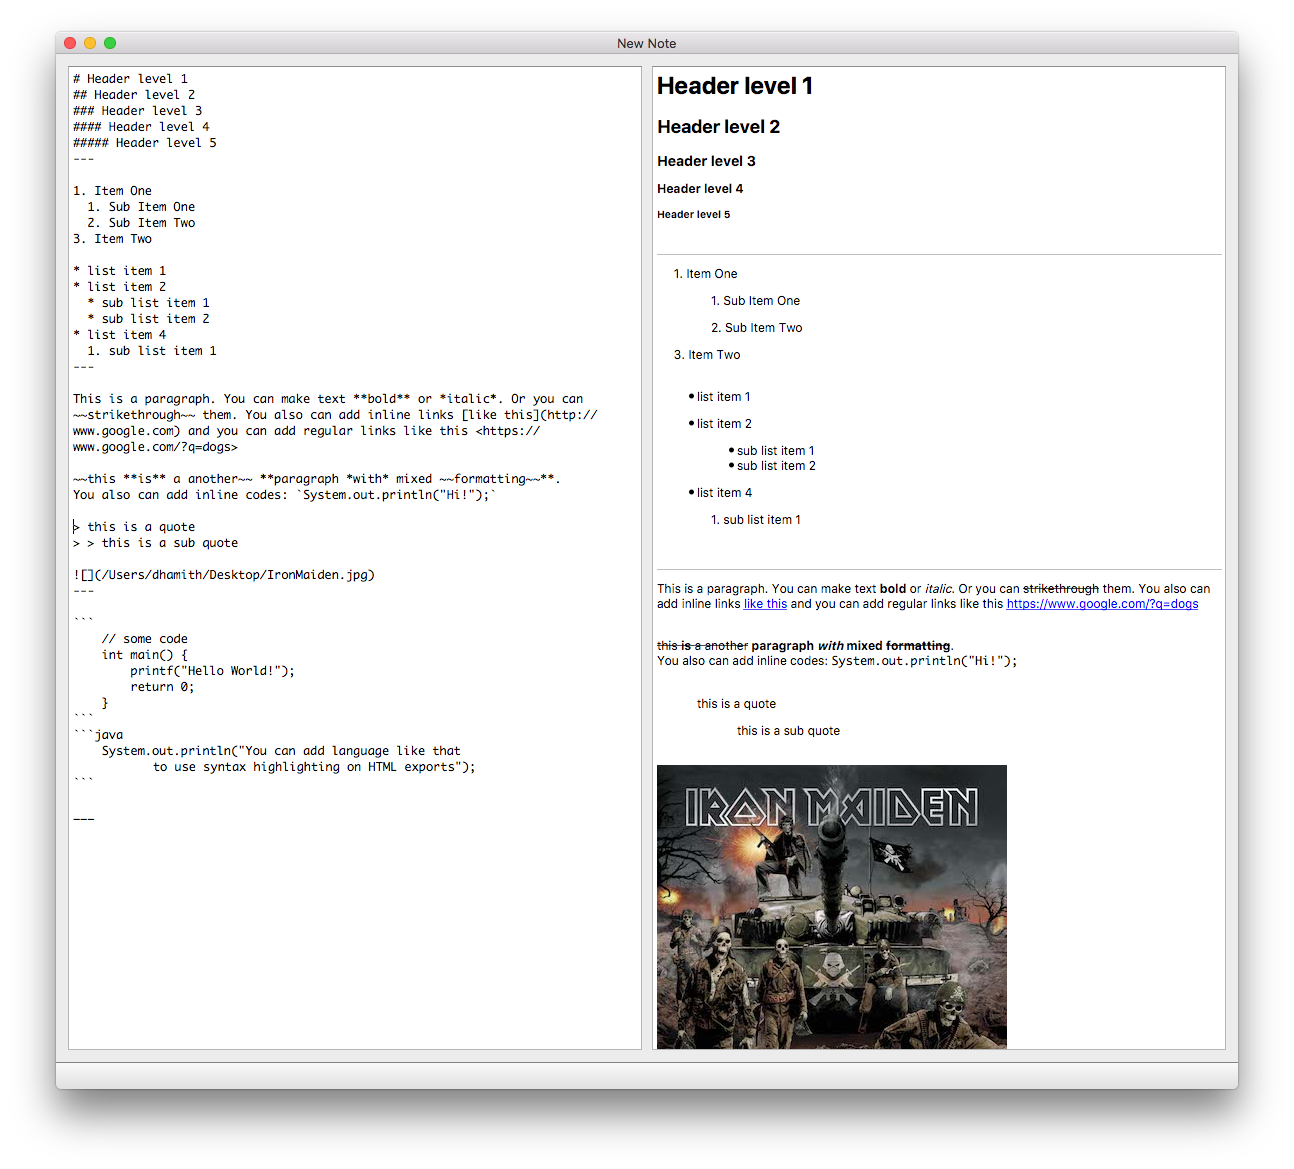
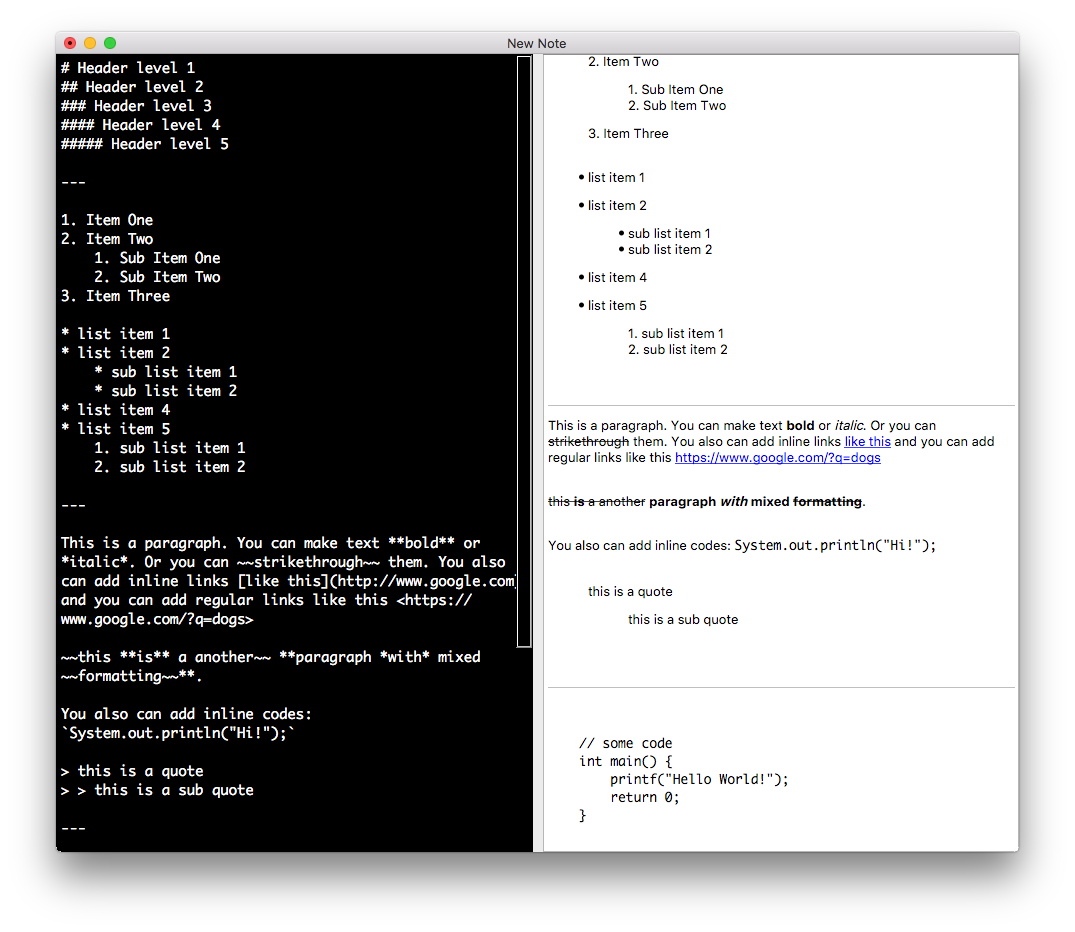
New MainWindow UI

diff --git a/newnotewindow.cpp b/newnotewindow.cpp
@@ -32,6 +32,7 @@ NewNoteWindow::NewNoteWindow(QWidget *parent, string filePath) :
     ui->setupUi(this);
     setAttribute(Qt::WA_DeleteOnClose);
     ui->actionPreview->setChecked(true);
+    ui->txtInput->setStyleSheet("background-color: black; color:white;");
     if (db.fontConfigExists()) {
         QFont font;
         font.fromString(db.getFontConfig());
@@ -55,6 +56,7 @@ NewNoteWindow::NewNoteWindow(QWidget *parent, string filePath) :
             db.insertNote(fileName);
         }
     } else {
+        setWindowModified(true);
         string input = ui->txtInput->toPlainText().toUtf8().constData();
         if (input.size() > 0) {
             setText(input);
@@ -65,6 +67,9 @@ NewNoteWindow::NewNoteWindow(QWidget *parent, string filePath) :
 void NewNoteWindow::on_txtInput_textChanged() {
     changeCount += 1;
     fileSaved = (fromOpen) ? (changeCount == 1) ? true : false : false;
+    if (!fileSaved) {
+        setWindowModified(true);
+    }
     string input = ui->txtInput->toPlainText().toUtf8().constData();
     if (input.size() > 0 && ui->actionPreview->isChecked()) {
         setText(input);
@@ -188,6 +193,7 @@ void NewNoteWindow::saveFile() {
             out.close();
             fileSaved = true;
             fromOpen = true;
+            setWindowModified(false);
             setWindowTitle(fileName);
             if (!db.checkIfExists(fileName)) {
                 if (db.checkRowCountEq(10)) {

diff --git a/newwebenginenotewindow.cpp b/newwebenginenotewindow.cpp
@@ -54,12 +54,17 @@ NewWebEngineNoteWindow::NewWebEngineNoteWindow(QWidget *parent, string filePath)
             }
             db.insertNote(fileName);
         }
+    } else {
+        setWindowModified(true);
     }
 }
 
 void NewWebEngineNoteWindow::on_txtInput_textChanged() {
     changeCount += 1;
     fileSaved = (fromOpen) ? (changeCount == 1) ? true : false : false;
+    if (!fileSaved) {
+        setWindowModified(true);
+    }
     string input = ui->txtInput->toPlainText().toUtf8().constData();
     if (input.size() > 0 && ui->actionPreview->isChecked()) {
         setText(input);
@@ -178,6 +183,7 @@ void NewWebEngineNoteWindow::saveFile() {
             out.close();
             fileSaved = true;
             fromOpen = true;
+            setWindowModified(false);
             setWindowTitle(fileName);
             if (!db.checkIfExists(fileName)) {
                 if (db.checkRowCountEq(10)) {
